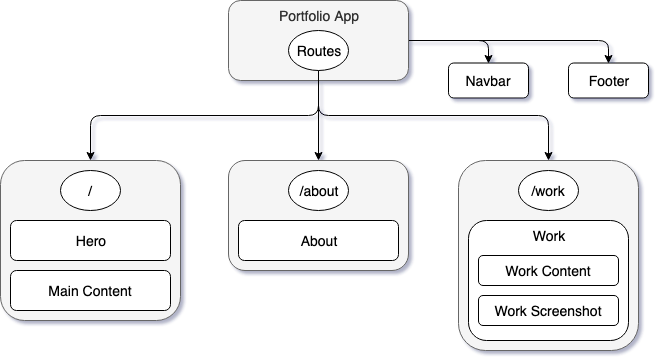
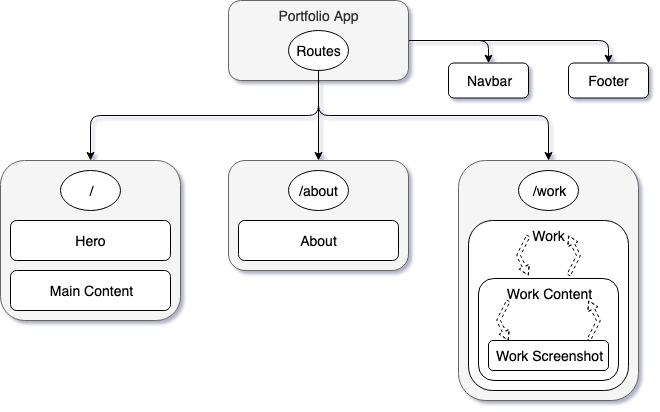
Updates to Readme

diff --git a/src/components/Work/workComponents/WorkScreenshot.jsx b/src/components/Work/workComponents/WorkScreenshot.jsx
@@ -12,14 +12,13 @@ const styles = {
   display: flex;
   align-items: center;
   justify-content: center;
-  margin-left:
-
+  margin-top: 25px;
   `,
   mobileImage: styled.img`
   order: 1;
   border-radius: .25rem;
-  height: 30%;
-  width: 30%;
+  height: 20%;
+  width: 20%;
   box-shadow: 4px 4px 8px 0 rgba(0, 0, 0, 0.2), 0px 6px 20px 0 rgba(0, 0, 0, 0.19);
   position: relative;
   z-index: 1;
@@ -27,8 +26,8 @@ const styles = {
   desktopImage: styled.img`
   order: 2;
   border-radius: .25rem;
-  height: 70%;
-  width: 70%;
+  height: 60%;
+  width: 60%;
   box-shadow: 4px 4px 8px 0 rgba(0, 0, 0, 0.2), 0 6px 20px 0 rgba(0, 0, 0, 0.19);
   position: inherit;
   margin-left: -5%;

diff --git a/src/components/Work/Work.jsx b/src/components/Work/Work.jsx
@@ -81,13 +81,11 @@ class Work extends React.Component {
           <styles.WorkButtons value='0' onClick={this.handleChangeContent}>Work 1</styles.WorkButtons>
           <styles.WorkButtons value='1' onClick={this.handleChangeContent}>Work 2</styles.WorkButtons>
           <styles.WorkButtons value='2' onClick={this.handleChangeContent}>Work 3</styles.WorkButtons>
-          <styles.WorkButtons value='3' onClick={this.handleChangeContent}>Work 4</styles.WorkButtons>
         </styles.ButtonRow>
 
         <styles.workExample>
           {renderedWorkText}
         </styles.workExample>
-        <WorkScreenshot />
 
 
 

diff --git a/src/components/Work/workComponents/WorkContent.jsx b/src/components/Work/workComponents/WorkContent.jsx
@@ -1,13 +1,29 @@
 import React from 'react'
 
- 
+import WorkScreenshot from './WorkScreenshot'
 
+import styled from 'styled-components'
+
+const styles = {
+  content: styled.div`
+  display: flex;
+  flex-direction: column;
+  `,
+  projectTitle: styled.h1`
+  margin: auto
+  `,
+}
+
+ 
 
 function WorkContent(props){
   return(
-    <div>
-      <p>{props.content.title}</p>
-    </div>
+    <styles.content>
+      <styles.projectTitle>{props.content.title}</styles.projectTitle>
+      <div>
+      <WorkScreenshot/>
+      </div>
+    </styles.content>
   )
 }
 
